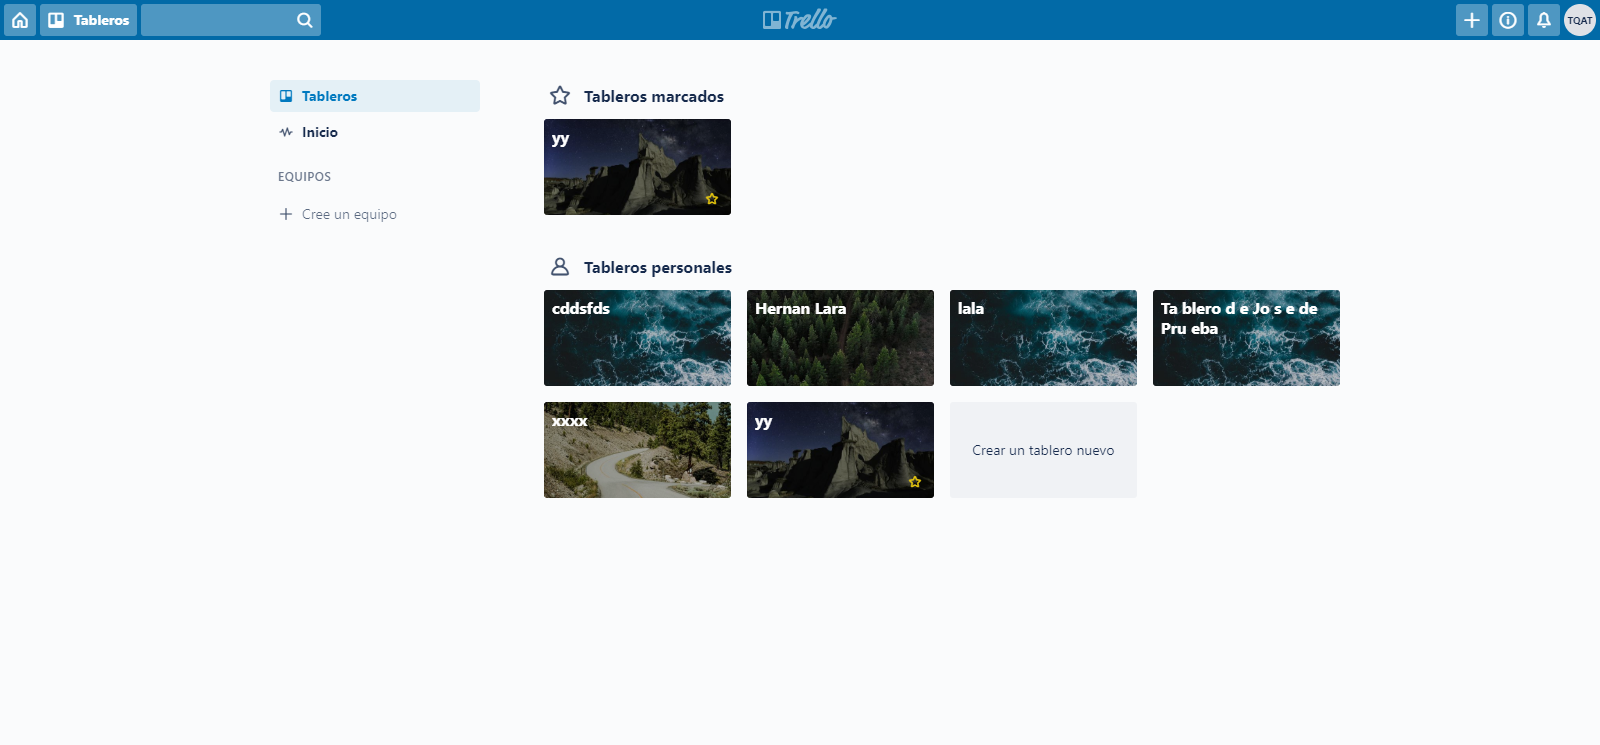
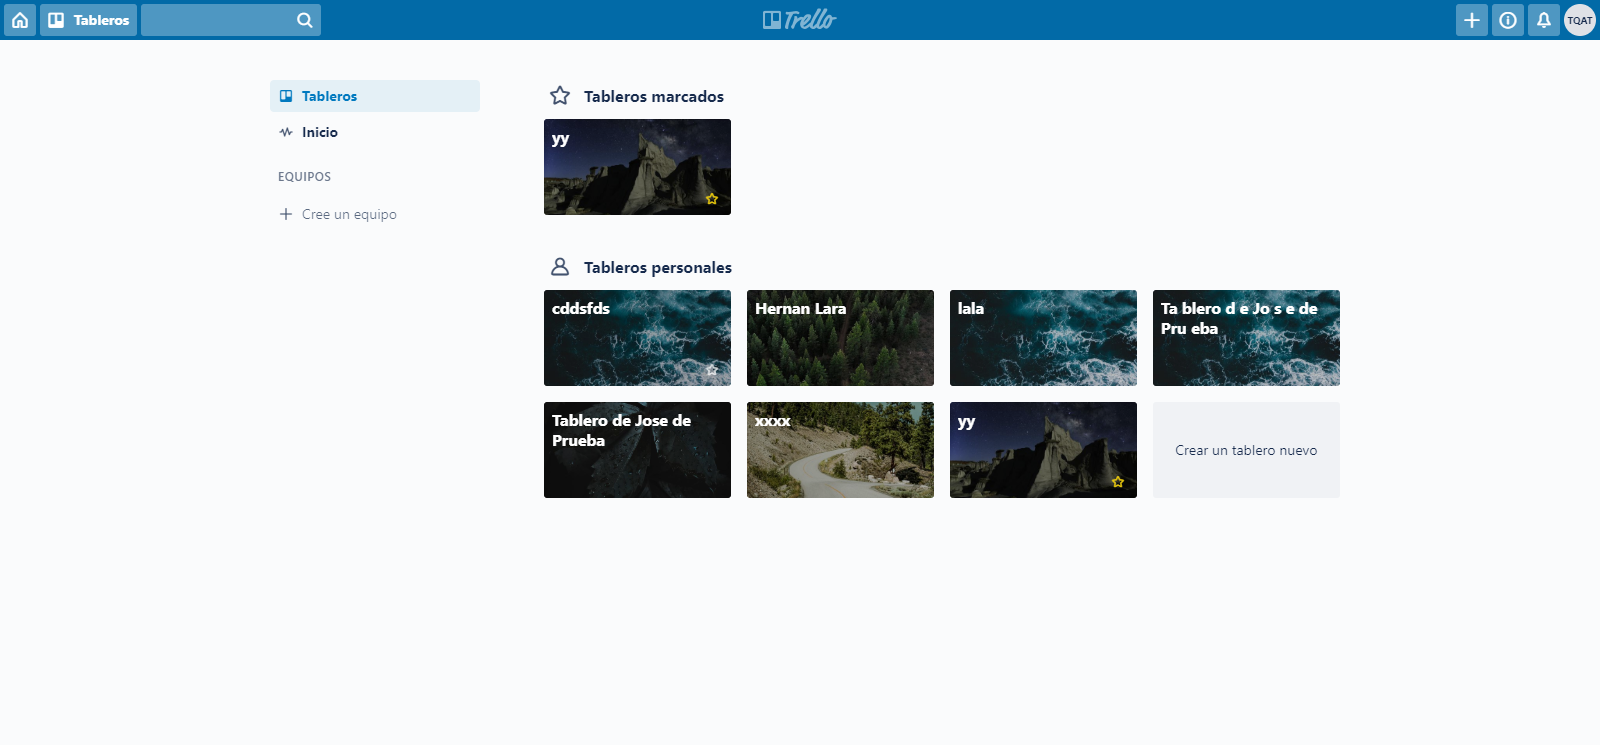
Validando Caso
Validando Caso Crear Tablero

Changed region(s): [[0.3125, 0.5248, 0.7188, 0.6792], [0.75, 0.5866, 0.8125, 0.6174]]

diff --git a/ExtentReports/Trello.html b/ExtentReports/Trello.html
@@ -53,7 +53,7 @@
 					<i class='mdi-hardware-desktop-windows'></i>
 				</li>
 				<li>
-					<span class='suite-started-time'>2019-08-18 11:00:01</span>
+					<span class='suite-started-time'>2019-08-18 11:04:40</span>
 				</li>
 				<li>
 					<span>v2.41.1</span>
@@ -83,25 +83,25 @@
 					<div class='col l2 m4 s12'>
 						<div class='card suite-total-time-current'> 
 							<span class='panel-name'>Tiempo total insumido (Corrida actual)</span> 
-							<span class='suite-total-time-current-value panel-lead'>0h 0m 36s+536ms</span> 
+							<span class='suite-total-time-current-value panel-lead'>0h 0m 34s+563ms</span> 
 						</div> 
 					</div>
 					<div class='col l2 m4 s12'>
 						<div class='card suite-total-time-overall'> 
 							<span class='panel-name'>Tiempo total insumido (En general)</span> 
-							<span class='suite-total-time-overall-value panel-lead'>0h 0m 36s+536ms</span> 
+							<span class='suite-total-time-overall-value panel-lead'>0h 0m 34s+563ms</span> 
 						</div> 
 					</div>
 					<div class='col l2 m4 s6 suite-start-time'>
 						<div class='card accent green-accent'> 
 							<span class='panel-name'>Comienzo</span> 
-							<span class='panel-lead suite-started-time'>2019-08-18 10:59:25</span> 
+							<span class='panel-lead suite-started-time'>2019-08-18 11:04:05</span> 
 						</div> 
 					</div>
 					<div class='col l2 m4 s6 suite-end-time'>
 						<div class='card accent pink-accent'> 
 							<span class='panel-name'>Fin</span> 
-							<span class='panel-lead suite-ended-time'>2019-08-18 11:00:01</span> 
+							<span class='panel-lead suite-ended-time'>2019-08-18 11:04:40</span> 
 						</div> 
 					</div>
 				</div>
@@ -237,7 +237,7 @@
 						<div class='card-panel no-padding-h no-padding-v no-margin-v'>
 							<div class='wrapper'>
 								<ul id='test-collection' class='test-collection'>
-										<li class='collection-item test displayed active pass ' extentid='5eedcc1f-5e47-4b4b-9a1d-082217f6879c'>
+										<li class='collection-item test displayed active pass ' extentid='894c5b40-7143-44eb-b11e-fcf1ffd2ade8'>
 											<div class='test-head'>
 												<span class='test-name'>Crear Tablero </span>
 												<span class='test-status label right outline capitalize pass'>pass</span>
@@ -245,9 +245,9 @@
 											</div>
 											<div class='test-body'>
 												<div class='test-info'>
-													<span title='Comienzo del test' alt='Comienzo del test' class='test-started-time label green lighten-1 text-white'>2019-08-18 10:59:38</span>
-													<span title='Fin de test' alt='Fin de test' class='test-ended-time label red lighten-1 text-white'>2019-08-18 11:00:01</span>
-													<span title='Tiempo de ejecución' alt='Tiempo de ejecución' class='test-time-taken label blue-grey lighten-3 text-white'>0h 0m 22s+638ms</span>
+													<span title='Comienzo del test' alt='Comienzo del test' class='test-started-time label green lighten-1 text-white'>2019-08-18 11:04:17</span>
+													<span title='Fin de test' alt='Fin de test' class='test-ended-time label red lighten-1 text-white'>2019-08-18 11:04:39</span>
+													<span title='Tiempo de ejecución' alt='Tiempo de ejecución' class='test-time-taken label blue-grey lighten-3 text-white'>0h 0m 21s+821ms</span>
 												</div>
 												<div class='test-desc'>Prueba De Crear Tablero</div>
 												<div class='test-attributes'>
@@ -264,37 +264,37 @@
 														<tbody>
 																<tr>
 																	<td class='status info' title='info' alt='info'><i class='mdi-action-info-outline'></i></td>
-																	<td class='timestamp'>10:59:38</td>
+																	<td class='timestamp'>11:04:17</td>
 																	<td class='step-details'>Prueba Tablero Correcto</td>
 																</tr>
 																<tr>
 																	<td class='status info' title='info' alt='info'><i class='mdi-action-info-outline'></i></td>
-																	<td class='timestamp'>10:59:39</td>
+																	<td class='timestamp'>11:04:18</td>
 																	<td class='step-details'>Ingreso de Usuario & Clave<a href='.\Evidence\Trello\CrearTabero\Imagen01.png' data-featherlight='image'><img class='report-img' src='.\Evidence\Trello\CrearTabero\Imagen01.png' /></a></td>
 																</tr>
 																<tr>
 																	<td class='status info' title='info' alt='info'><i class='mdi-action-info-outline'></i></td>
-																	<td class='timestamp'>10:59:43</td>
+																	<td class='timestamp'>11:04:22</td>
 																	<td class='step-details'>Pantalla de Inicio<a href='.\Evidence\Trello\CrearTabero\Imagen02.png' data-featherlight='image'><img class='report-img' src='.\Evidence\Trello\CrearTabero\Imagen02.png' /></a></td>
 																</tr>
 																<tr>
 																	<td class='status info' title='info' alt='info'><i class='mdi-action-info-outline'></i></td>
-																	<td class='timestamp'>10:59:48</td>
+																	<td class='timestamp'>11:04:26</td>
 																	<td class='step-details'>Pantalla de Agregar Nombre Tablero <a href='.\Evidence\Trello\CrearTabero\NuevoTableritoNombre.png' data-featherlight='image'><img class='report-img' src='.\Evidence\Trello\CrearTabero\NuevoTableritoNombre.png' /></a></td>
 																</tr>
 																<tr>
 																	<td class='status info' title='info' alt='info'><i class='mdi-action-info-outline'></i></td>
-																	<td class='timestamp'>10:59:52</td>
+																	<td class='timestamp'>11:04:30</td>
 																	<td class='step-details'>Pantalla de Tablero Creado <a href='.\Evidence\Trello\CrearTabero\NuevoTableritoCreado.png' data-featherlight='image'><img class='report-img' src='.\Evidence\Trello\CrearTabero\NuevoTableritoCreado.png' /></a></td>
 																</tr>
 																<tr>
 																	<td class='status info' title='info' alt='info'><i class='mdi-action-info-outline'></i></td>
-																	<td class='timestamp'>11:00:01</td>
+																	<td class='timestamp'>11:04:39</td>
 																	<td class='step-details'>Pantalla de Cerrar Sesion<a href='.\Evidence\Trello\CrearTabero\Imagen03.png' data-featherlight='image'><img class='report-img' src='.\Evidence\Trello\CrearTabero\Imagen03.png' /></a></td>
 																</tr>
 																<tr>
 																	<td class='status pass' title='pass' alt='pass'><i class='mdi-action-check-circle'></i></td>
-																	<td class='timestamp'>11:00:01</td>
+																	<td class='timestamp'>11:04:39</td>
 																	<td class='step-details'>Test passed.-</td>
 																</tr>
 														</tbody>

diff --git a/src/test/java/cl/tecnova/cal/pages/CrearTableroPage.java b/src/test/java/cl/tecnova/cal/pages/CrearTableroPage.java
@@ -5,6 +5,7 @@ package cl.tecnova.cal.pages;
 
 import org.openqa.selenium.By;
 import org.openqa.selenium.WebDriver;
+import org.testng.Assert;
 
 import com.relevantcodes.extentreports.ExtentTest;
 
@@ -24,17 +25,26 @@ public class CrearTableroPage {
 	private By agregartitulo;
 	private By creartablero;
 	
+	//Asserts
+	private By validaciontablerocreado;
+
+	
 	
 	//Construcctor
-			public CrearTableroPage(WebDriver driver, ExtentTest test, Boolean TAKE_SS) {
+	public CrearTableroPage(WebDriver driver, ExtentTest test, Boolean TAKE_SS) {
 				
-				this.driver = driver; 	//Esto Siempre va ser igual para todo
-				this.test = test;
-				this.TAKE_SS = TAKE_SS;
-				this.clickcrearuntablero = By.xpath("//div[@class='board-tile mod-add']");
-				this.agregartitulo = By.xpath("//*[@id=\"chrome-container\"]/div[3]/div/div/div/form/div/div/div[1]/input");
-				this.creartablero = By.xpath("//*[@id=\"chrome-container\"]/div[3]/div/div/div/form/button");
-						}
+	this.driver = driver; 	//Esto Siempre va ser igual para todo
+	this.test = test;
+	this.TAKE_SS = TAKE_SS;
+	this.clickcrearuntablero = By.xpath("//div[@class='board-tile mod-add']");
+	this.agregartitulo = By.xpath("//*[@id=\"chrome-container\"]/div[3]/div/div/div/form/div/div/div[1]/input");
+	this.creartablero = By.xpath("//*[@id=\"chrome-container\"]/div[3]/div/div/div/form/button");
+	//Constructor_Assert
+	this.validaciontablerocreado = By.xpath("//span[contains(.,'Tablero de Jose de Prueba')]");
+
+	
+	
+	}
 	public void CrearTablero(String subDir){
 		driver.findElement(clickcrearuntablero).click();
 		Helper.waitSeconds(1);
@@ -46,4 +56,19 @@ public class CrearTableroPage {
 		Helper.addEvidence(TAKE_SS, driver, test, "Pantalla de Tablero Creado ", subDir, "NuevoTableritoCreado");		
 		Helper.waitSeconds(4);
 	}
+	
+	
+	
+	
+	
+	
+	
+	
+	
+	
+	
+	public void assertCrearTableroValidacion() { //metodo para validar ingreso correcto      //#Paso 5 	
+		Assert.assertTrue(driver.findElement(validaciontablerocreado).getText().equals("Tablero de Jose de Pruebaaaa"));
+
+		}
 }

diff --git a/src/test/java/cl/tecnova/cal/tests/Test_Login_Trello_GC.java b/src/test/java/cl/tecnova/cal/tests/Test_Login_Trello_GC.java
@@ -71,6 +71,7 @@ public class Test_Login_Trello_GC {
 			login.assertLoginCorrecto();
 			CrearTableroPage CrearTablero = new CrearTableroPage (driver, test, TAKE_SS); 
 			CrearTablero.CrearTablero(subDir);
+			CrearTablero.assertCrearTableroValidacion();
 			login.CerrarSesion(subDir);
 			}
 //			
